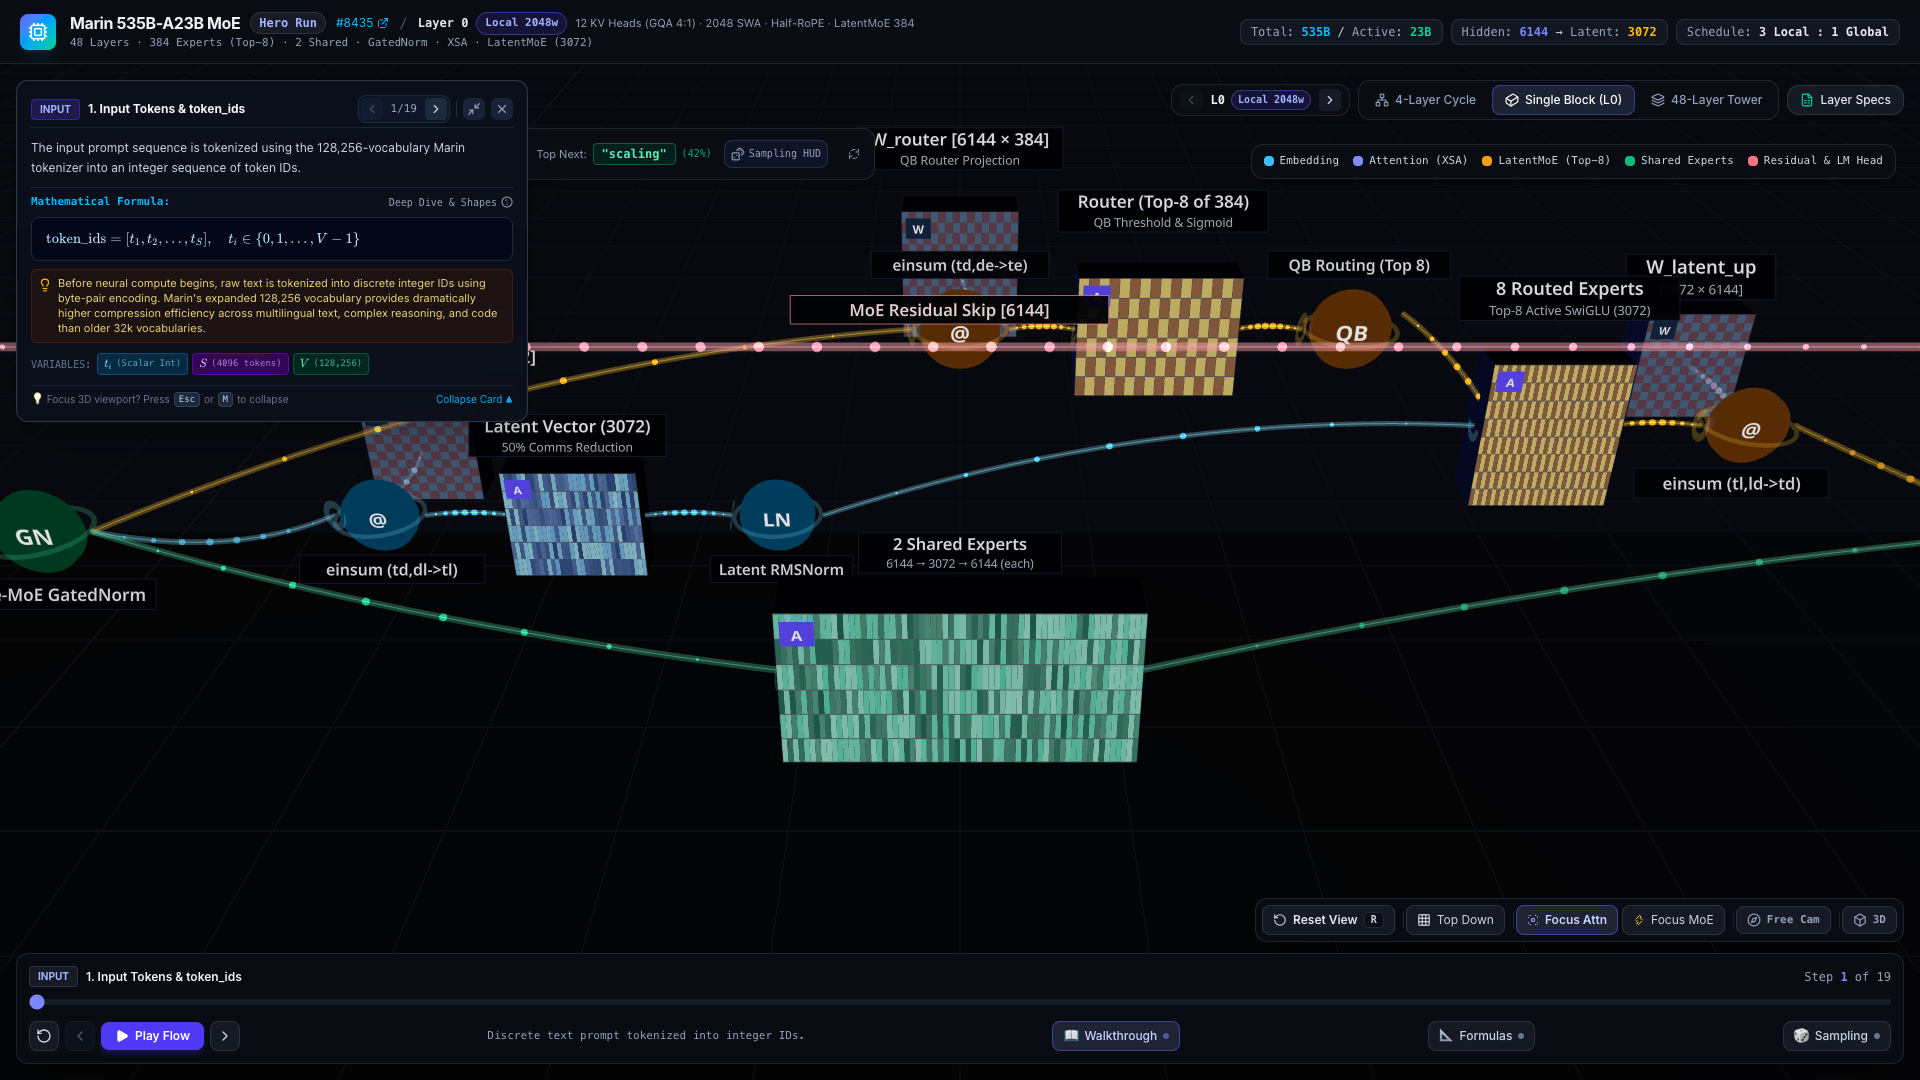
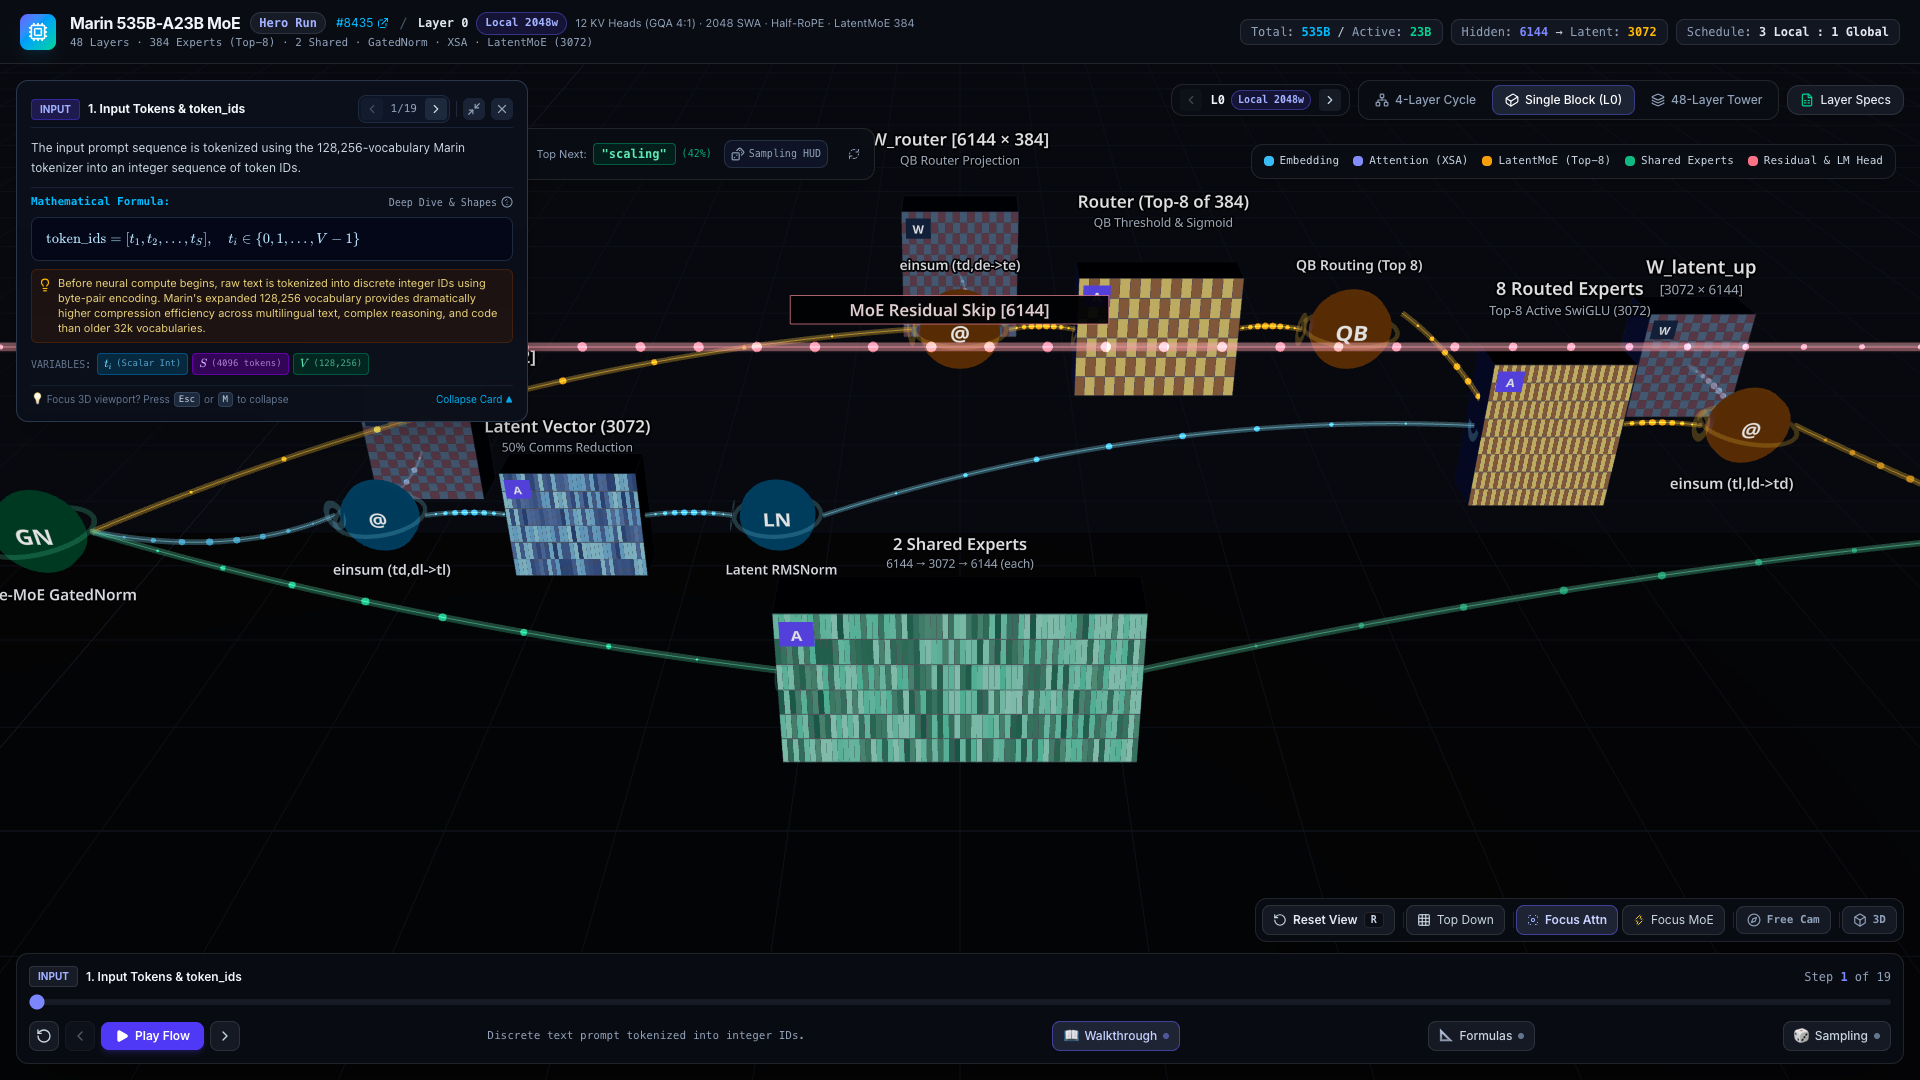
style(visualizer): implement clean typography and halo outline for text labels

diff --git a/src/components/ThreeScene/TensorMatrix.tsx b/src/components/ThreeScene/TensorMatrix.tsx
@@ -291,44 +291,16 @@ export const TensorMatrix: React.FC<TensorMatrixProps> = ({
       <ScreenSpaceBillboard
         position={[0, size[1] / 2 + (subLabel ? 0.52 : 0.4) + labelYOffset, 0]}
       >
-        {/* High-contrast dark pill backdrop */}
-        <mesh position={[0, 0, -0.01]}>
-          <planeGeometry
-            args={[
-              Math.min(2.6, Math.max(1.1, Math.max(label.length, subLabel?.length || 0) * 0.105 + 0.34)),
-              subLabel ? 0.52 : 0.34,
-            ]}
-          />
-          <meshBasicMaterial
-            color="#090c13"
-            transparent
-            opacity={0.95}
-            depthWrite={true}
-          />
-        </mesh>
-        <lineSegments position={[0, 0, 0]}>
-          <edgesGeometry
-            args={[
-              new THREE.PlaneGeometry(
-                Math.min(2.6, Math.max(1.1, Math.max(label.length, subLabel?.length || 0) * 0.105 + 0.34)),
-                subLabel ? 0.52 : 0.34
-              ),
-            ]}
-          />
-          <lineBasicMaterial
-            color={isHighlighted ? borderColor : '#243046'}
-            transparent
-            opacity={0.75}
-          />
-        </lineSegments>
-
         <Text
           position={[0, subLabel ? 0.12 : 0, 0.01]}
           fontSize={0.21}
-          color={isHighlighted ? '#ffffff' : '#e2e8f0'}
+          color={isHighlighted ? '#ffffff' : '#f8fafc'}
           anchorX="center"
           anchorY="middle"
           fontWeight={600}
+          outlineWidth={0.024}
+          outlineColor="#090c13"
+          outlineBlur={0.006}
         >
           {label}
         </Text>
@@ -337,9 +309,12 @@ export const TensorMatrix: React.FC<TensorMatrixProps> = ({
           <Text
             position={[0, -0.14, 0.01]}
             fontSize={0.15}
-            color={isHighlighted ? '#93c5fd' : '#94a3b8'}
+            color={isHighlighted ? '#38bdf8' : '#94a3b8'}
             anchorX="center"
             anchorY="middle"
+            outlineWidth={0.02}
+            outlineColor="#090c13"
+            outlineBlur={0.005}
           >
             {subLabel}
           </Text>

diff --git a/src/components/ThreeScene/OperatorNode.tsx b/src/components/ThreeScene/OperatorNode.tsx
@@ -86,37 +86,16 @@ export const OperatorNode: React.FC<OperatorNodeProps> = ({
             : [0, -0.76, 0]
         }
       >
-        <mesh position={[0, 0, -0.01]}>
-          <planeGeometry args={[Math.min(2.4, Math.max(1.0, name.length * 0.105 + 0.34)), 0.34]} />
-          <meshBasicMaterial
-            color="#090c13"
-            transparent
-            opacity={0.94}
-            depthWrite={true}
-          />
-        </mesh>
-        <lineSegments position={[0, 0, 0]}>
-          <edgesGeometry
-            args={[
-              new THREE.PlaneGeometry(
-                Math.min(2.4, Math.max(1.0, name.length * 0.105 + 0.34)),
-                0.34
-              ),
-            ]}
-          />
-          <lineBasicMaterial
-            color={isHighlighted ? color : '#243046'}
-            transparent
-            opacity={0.7}
-          />
-        </lineSegments>
         <Text
           position={[0, 0, 0.01]}
-          fontSize={0.19}
-          color={isHighlighted ? '#ffffff' : '#cbd5e1'}
+          fontSize={0.17}
+          color={isHighlighted ? '#ffffff' : '#e2e8f0'}
           anchorX="center"
           anchorY="middle"
           fontWeight={600}
+          outlineWidth={0.022}
+          outlineColor="#090c13"
+          outlineBlur={0.006}
         >
           {name}
         </Text>

diff --git a/src/components/ThreeScene/MicroBlockView.tsx b/src/components/ThreeScene/MicroBlockView.tsx
@@ -173,6 +173,7 @@ export const MicroBlockView: React.FC<MicroBlockViewProps> = ({
             onHover={onHoverItem}
             onClick={onClickItem}
             onHoverCell={onHoverCell}
+            labelYOffset={0.35}
           />
 
           {/* token_embed -> _embedding_gather */}
